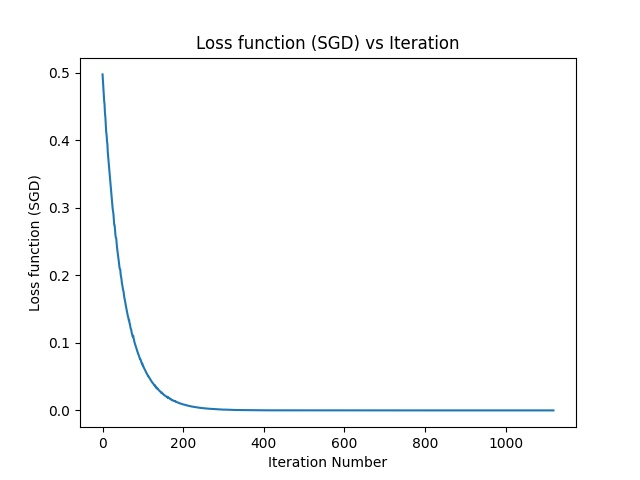
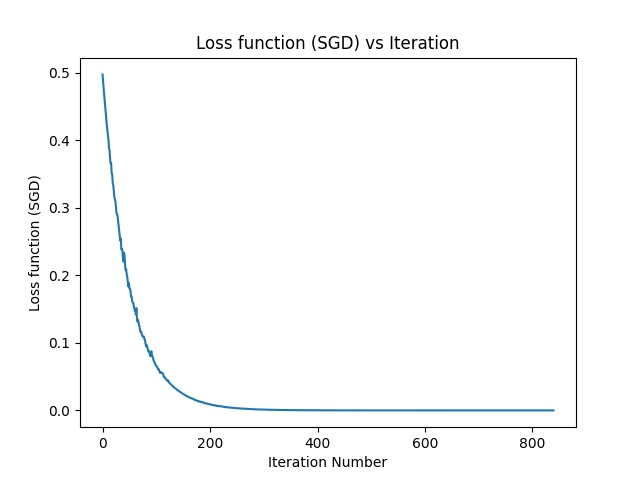
Assignment-1 contours

diff --git a/Assignment-1/Q1/main.py b/Assignment-1/Q1/main.py
@@ -1,18 +1,19 @@
-import os
+
 import numpy as np
 import matplotlib.pyplot as plt
 import pandas as pd
 import math
 from mpl_toolkits import mplot3d
+import os
 
 learning_rate = 0.01
 DELTA = 1e-8
 BATCH_SIZE = 10
 BASE_DIR = os.path.dirname(os.path.dirname(os.path.abspath(__file__)))
 K_ITERATIONS = 10
-TIME_GAP = 0.2
-
-# global EXAMPLES
+TIME_GAP = 0.001
+ITERATION_SKIP = 100
+DEBUG = False
 
 def h_theta(theta, x):
     if type(x) == int or type(x) == float:
@@ -111,7 +112,7 @@ def loss_Examples(theta, data_x, data_y):
     total_loss = (total_loss)/(2*EXAMPLES)
     return total_loss
 
-def j_theta_mesh(iterations, theta_list, loss, data_x, data_y):
+def j_theta_mesh(iterations, theta_list, loss, learning_rate, data_x, data_y):
     fig = plt.figure()
     ax = fig.add_subplot(111, projection='3d')
     # ax = plt.axes(projection ='3d')
@@ -137,22 +138,29 @@ def j_theta_mesh(iterations, theta_list, loss, data_x, data_y):
             z[i][j] = loss_Examples(theta, data_x, data_y)
     
     x, y = np.meshgrid(theta0_x, theta1_y)
+    
     ax.plot_surface(x, y, z, cmap='twilight_shifted',alpha=0.7)
     plt.title('Error function (J(0)) vs Parameters')
+    
+    ax.set_xlabel("Theta0")
+    ax.set_ylabel("Theta1")
+    ax.set_zlabel("Error function J(0)")
+    
     ax.view_init(elev=34,azim=46);
     
-    skip = 50
-    print("Total Steps:{}".format(int(iterations/skip)))
-    for i in range(0, iterations, skip):
-        print("Step:{}".format(int(i/skip)))
+    print("\nTotal Steps:{}".format(int(iterations/ITERATION_SKIP)))
+    for i in range(0, iterations+1, ITERATION_SKIP):
+        print("Step:{}".format(math.ceil(i/ITERATION_SKIP)))
         x = theta0_list[i]
         y = theta1_list[i]
         z = loss[i]
         ax.scatter(xs=x, ys=y, zs=z, c='red')
         fig.canvas.draw()
         plt.pause(TIME_GAP)
+    
+    plt.savefig(os.path.join(BASE_DIR, 'Q1', 'assets', "Error function (J(0)) vs Parameters.jpeg"))
 
-def batch_gradient_descent(data_x, data_y):    
+def batch_gradient_descent(learning_rate, data_x, data_y):
     global EXAMPLES
     EXAMPLES = data_x.shape[0]
     theta = np.zeros((2)) # Initialized theta to be a zero vector
@@ -188,32 +196,92 @@ def batch_gradient_descent(data_x, data_y):
             count2 = 0
         
             if converge(loss1,loss2):
-                return (i, learning_rate, DELTA, theta, theta_list, loss, data_x, data_y)
+                return (i, DELTA, theta, theta_list, loss, data_x, data_y)
 
-def partD(iterations, learning_rate, stopping_threshold, theta, theta_list, loss, data_x, data_y):
-    pass #contours
+def contour(iterations, theta_list, loss, learning_rate, data_x, data_y, label):
+    theta0_list = []
+    theta1_list = []
+    for i in theta_list:
+        theta1_list.append(i[0])
+        theta0_list.append(i[1])
 
-def partC(iterations, learning_rate, stopping_threshold, theta, theta_list, loss, data_x, data_y):
-    j_theta_mesh(iterations, theta_list, loss, data_x, data_y)
+    fig, ax = plt.subplots(1,1)
+    POINTS_X, POINTS_Y = 50, 50
     
-    # input("\nPress Enter to move to Part D")
-    partD(iterations, learning_rate, stopping_threshold, theta, theta_list, loss, data_x, data_y)
-
-def partB(iterations, learning_rate, stopping_threshold, theta, theta_list, loss, data_x, data_y):
-    # graph_y_yhat(data_x, data_y, theta)
+    theta0_x = np.linspace(-1,3,POINTS_X)
+    theta1_y = np.linspace(-2,2,POINTS_Y)
     
-    # input("\nPress Enter to move to Part C")
-    partC(iterations, learning_rate, stopping_threshold, theta, theta_list, loss, data_x, data_y)
+    # theta0_x = np.linspace(0,1,POINTS_X)
+    # theta1_y = np.linspace(-0.5,0.5,POINTS_Y)
+    
+    z = np.zeros((theta0_x.shape[0], theta1_y.shape[0]))
+    
+    for i in range(POINTS_X): # Theta parameters for plotting
+        for j in range(POINTS_Y):
+            theta0, theta1 = theta0_x[i], theta1_y[j]
+            theta = np.array([theta1, theta0])
+            z[i][j] = loss_Examples(theta, data_x, data_y)
+    
+    x, y = np.meshgrid(theta0_x, theta1_y)
+
+    plt.contour(x, y, z)
+    plt.title(label)
+    ax.set_xlabel("Theta0")
+    ax.set_ylabel("Theta1")
+    
+    print("\nTotal Steps:{}".format(math.ceil(iterations/ITERATION_SKIP)))
+    for i in range(0, iterations, ITERATION_SKIP):
+        print("Step:{}".format(i//ITERATION_SKIP + 1))
+        x = theta0_list[i]
+        y = theta1_list[i]
+        z = loss[i]
+        ax.scatter(x,y,c='red')
+        fig.canvas.draw()
+        plt.pause(TIME_GAP)
+    
+    plt.savefig(os.path.join(BASE_DIR, 'Q1', 'assets', label + ".jpeg"))
+
+def partE(data_x, data_y):
+    learning_rate_list = [0.001, 0.025, 0.1]
+    for learning_rate in learning_rate_list:
+        iterations, __, _, theta_list, loss, data_x, data_y = batch_gradient_descent(learning_rate, data_x, data_y)
+        label = "Contours of the Error function (Learning rate = {})".format(learning_rate)
+        contour(iterations, theta_list, loss, learning_rate, data_x, data_y, label)
+        # if PLOT_CLOSE:
+        #     plt.close('all')
+
+def partD(iterations, learning_rate, theta_list, loss, data_x, data_y):
+    if not DEBUG:
+        label = "Contours of the Error function (Learning rate = {})".format(learning_rate)
+        contour(iterations, theta_list, loss, learning_rate, data_x, data_y, label)    
+        input("\nPress Enter to move to Part E")
+        
+    partE(data_x, data_y)
+
+def partC(iterations, learning_rate, theta_list, loss, data_x, data_y):
+    if not DEBUG:
+        j_theta_mesh(iterations, theta_list, loss, learning_rate, data_x, data_y)    
+        input("\nPress Enter to move to Part D")
+    
+    partD(iterations, learning_rate, theta_list, loss, data_x, data_y)
+
+def partB(iterations, learning_rate, theta, theta_list, loss, data_x, data_y):
+    if not DEBUG:
+        graph_y_yhat(data_x, data_y, theta)
+        input("\nPress Enter to move to Part C")
+
+    partC(iterations, learning_rate, theta_list, loss, data_x, data_y)
 
 def partA(iterations, learning_rate, stopping_threshold, theta, theta_list, loss, data_x, data_y):
     print("Part A")
     print("Iterations: {}".format(iterations))
     print("Stopping Threshold: {}".format(stopping_threshold))
     print("Parameters Learned: {}".format(theta))
-    # graph_loss(loss)
-    
-    # input("\nPress Enter to move to Part B")
-    partB(iterations, learning_rate, stopping_threshold, theta, theta_list, loss, data_x, data_y)
+    if not DEBUG:
+        graph_loss(loss)
+        input("\nPress Enter to move to Part B")
+        
+    partB(iterations, learning_rate, theta, theta_list, loss, data_x, data_y)
 
 
 if __name__ == '__main__':
@@ -221,6 +289,6 @@ if __name__ == '__main__':
     Y = data_load('linearY.csv')
     if X.shape[0] != Y.shape[0]:
         raise IOError("Inconsistent dimensions of data")    
-    i, learning_rate, DELTA, theta, theta_list, loss, data_x, data_y = batch_gradient_descent(X,Y)
-    partA(i, learning_rate, DELTA, theta, theta_list, loss, data_x, data_y)
+    iterations, DELTA, theta, theta_list, loss, data_x, data_y = batch_gradient_descent(learning_rate, X, Y) #data_X and data_Y are returned because of the scope of shuffling data inside the batch_gradient_descent function
+    partA(iterations, learning_rate, DELTA, theta, theta_list, loss, data_x, data_y)
     
